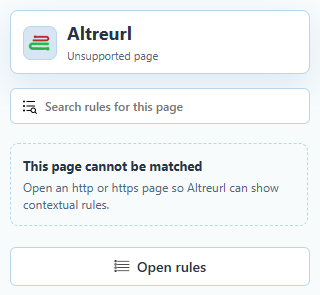
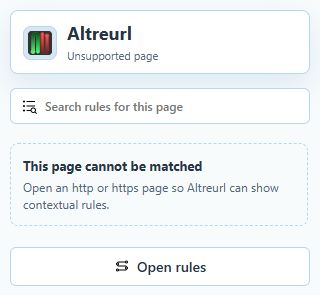
style: compact popup header layout

Changed region(s): [[0.0625, 0.0915, 0.1875, 0.2136], [0.3438, 0.8847, 0.4062, 0.9153]]

diff --git a/src/popup/popup.css b/src/popup/popup.css
@@ -33,7 +33,7 @@
   color: var(--muted);
   font-size: 11px;
   line-height: 1.3;
-  margin: 4px 0 0;
+  margin: 0px;
 }
 
 .search-field--popup {